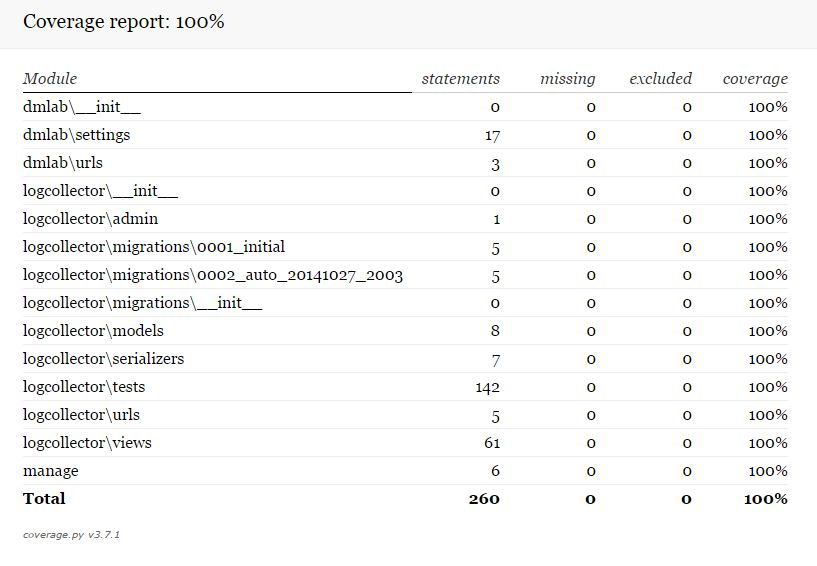
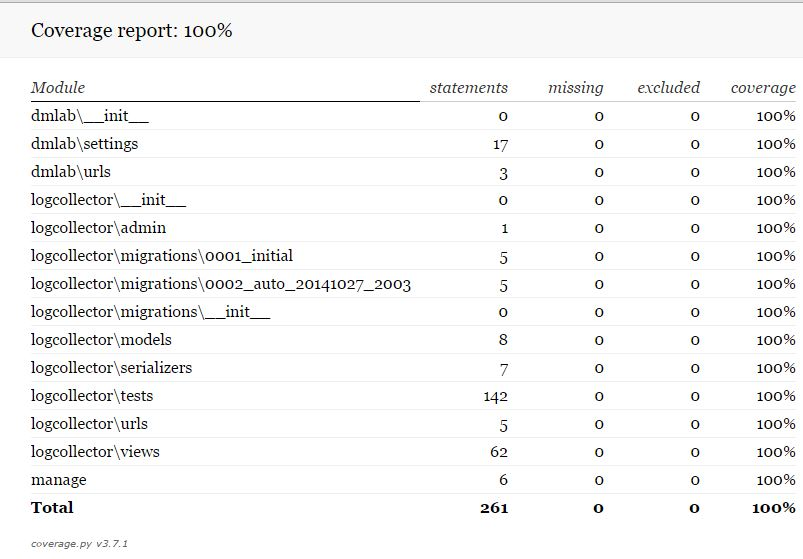
MvgAvg change

diff --git a/logcollector/views.py b/logcollector/views.py
@@ -25,7 +25,7 @@ class LogFun(APIView):
         if 't1' not in params.keys() or 't2' not in params.keys():
             return Response(status=status.HTTP_400_BAD_REQUEST)
         
-        rng = (params['t1'],params['t2'])
+        rng = [params['t1'],params['t2']]
         check_int_value(rng[0])
         check_int_value(rng[1])       
         
@@ -67,7 +67,8 @@ class LogFun(APIView):
                 check_int_value(n)
             else:
                 return Response(status=status.HTTP_400_BAD_REQUEST)
-            mvgavg = data.filter(timestamp__range=rng).order_by('-timestamp')[:n].aggregate(Avg('value'))['value__avg']
+            rng[0] = str(int(rng[1]) - int(n))
+            mvgavg = data.filter(timestamp__range=rng).aggregate(Avg('value'))['value__avg']
             return Response(mvgavg)
         else:
              return Response(status=status.HTTP_400_BAD_REQUEST)                       

diff --git a/logcollector/tests.py b/logcollector/tests.py
@@ -168,12 +168,12 @@ class TestMvgAvg(TestDatabase):
 
     def test_valid_mvgavg_request_without_dim1_dim2(self):
         response = self.client.get('/log/?t1=1&t2=4&method=MvgAvg&n=2')
-        self.assertEqual(response.content, "3.75")
+        self.assertEqual(response.content, "3.33333333333333")
         self.assertEqual(response.status_code, 200)
     
     def test_valid_mvgavg_request_with_dim1_without_dim2(self):
         response = self.client.get('/log/?t1=1&t2=4&method=MvgAvg&dim1=1&n=2')
-        self.assertEqual(response.content, "1.75")
+        self.assertEqual(response.content, "2.5")
         self.assertEqual(response.status_code, 200)
 
     def test_valid_mvgavg_request_without_dim1_with_dim2(self):
